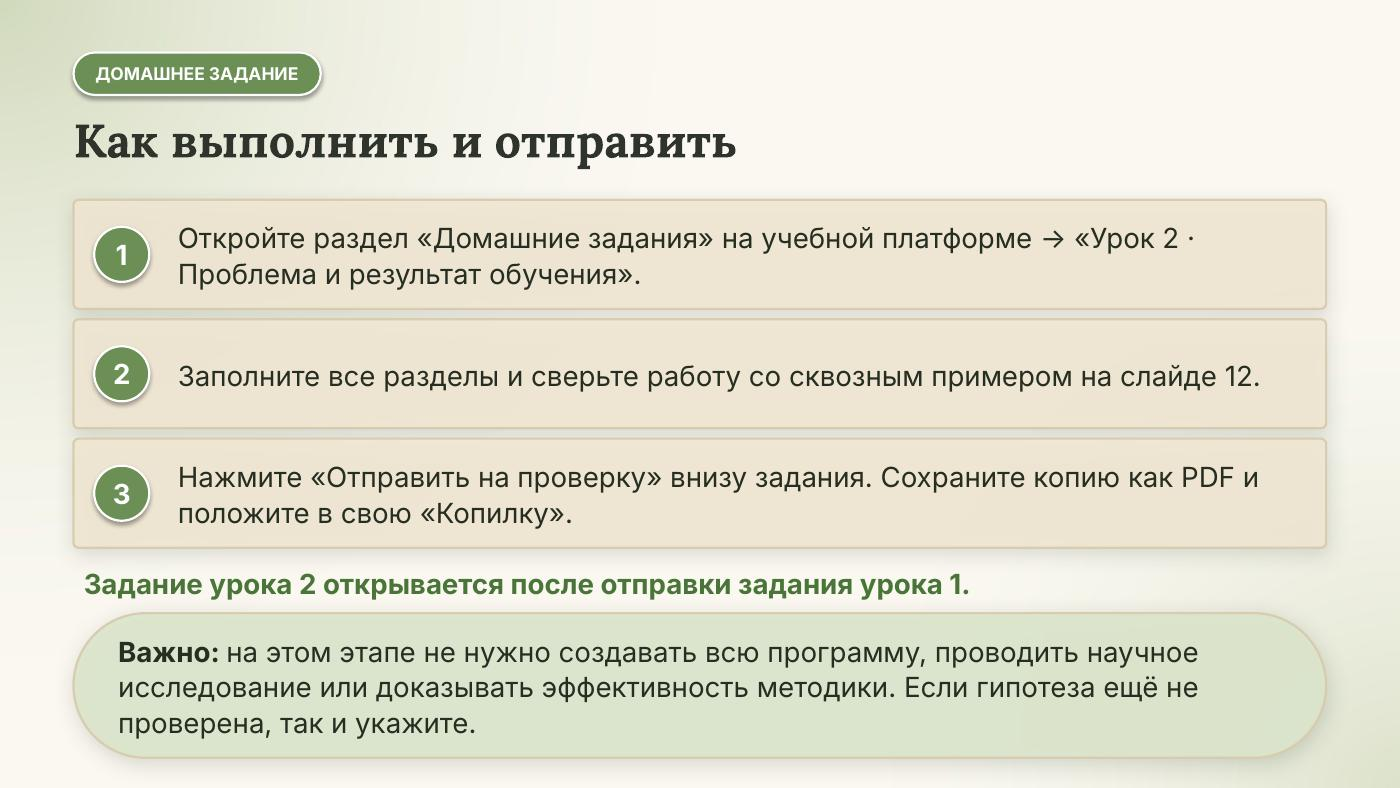
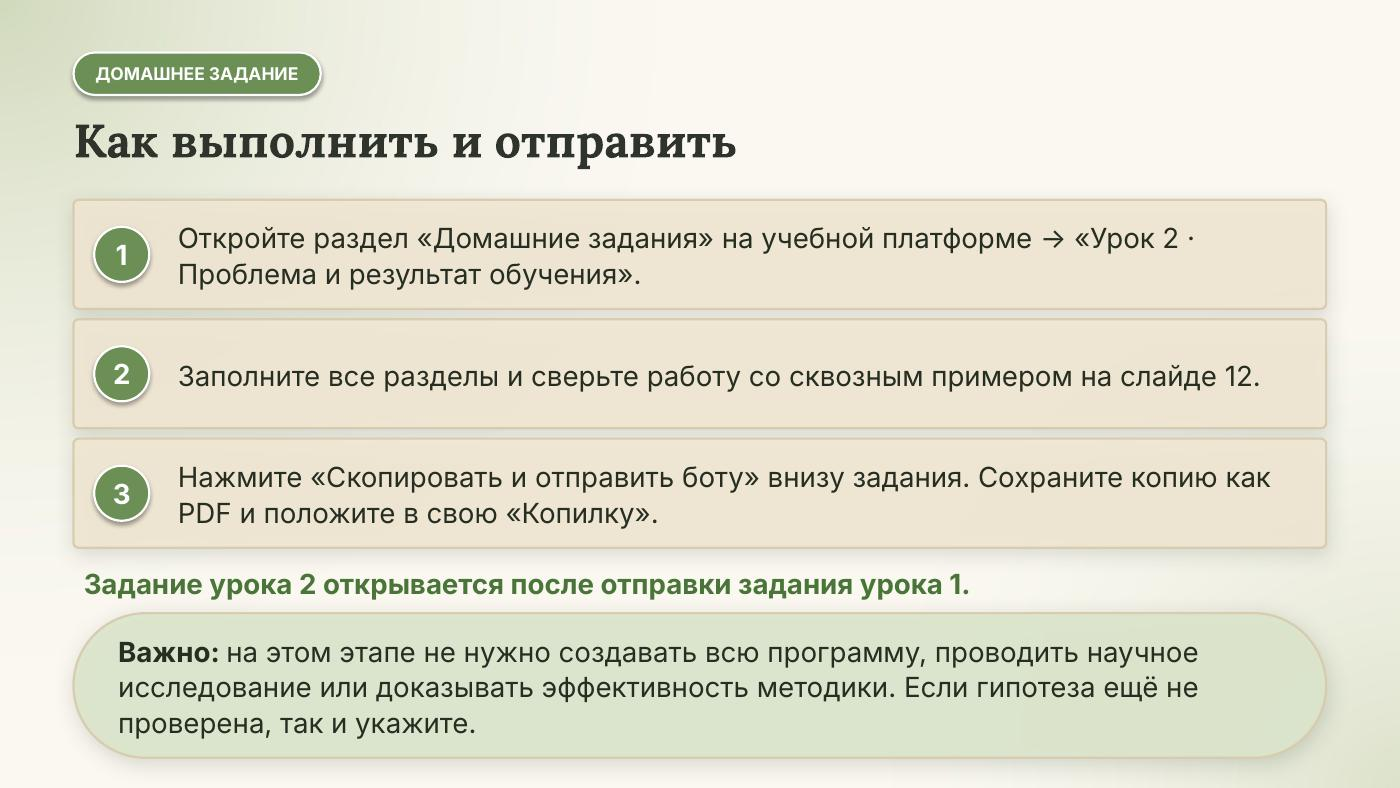
Уроки 2 и 3: верное название кнопки «Скопировать и отправить боту»
Claude-Session: https://claude.ai/code/session_01QSBLQ1QGNxgcnSucjRRssF

Changed region(s): [[0.1229, 0.5787, 0.9214, 0.6701]]

diff --git a/konstruktor.html b/konstruktor.html
@@ -102,7 +102,7 @@ var L=[
  ['q6','6. Какие материалы и инструменты нужны? С помощью чего вы пройдёте этот путь. Черновик. Уточним на уроке 3','Таблица махраджей, карточки букв, рабочая тетрадь, презентации к урокам'],
  ['#','Блок 5. Что у вас сложилось','Заполнять не нужно: здесь из ваших ответов видно, как одно вытекает из другого. Прочитайте цепочку и проверьте её. То, что ответы стоят подряд, не значит, что они согласованы: ищите противоречия. Например, в точке А ученик уже знает буквы, а путь начинается с изучения букв с нуля.'],
  ['chk1','Проверка: точка А вытекает из главной трудности? Точка Б отвечает на эту трудность? Путь начинается с того уровня, что указан в точке А, и ведёт к Б? Материалы нужны именно для этого пути? Что сходится, что уточните?','Точка А и точка Б связаны с главной трудностью. Путь ведёт к Б. Уточню: какие буквы входят в итоговую проверку']]},
-{n:2,t:'Проблема и результат обучения',note:'<b>Зачем это задание:</b> научиться разбираться в трудности ученика до выбора методики и определить результат, к которому приведёт ваша программа. На нём строится урок 3.<br><br><b>Что заполнить — по порядку:</b><br>1. Ученик и его трудность: для кого, начальный уровень, боль, потребность<br>2. Причина трудности: гипотеза 1 обязательно, гипотеза 2 — по желанию. Наблюдаю → предполагаю → проверяю → статус<br>3. Результат: что ученик сделает сам и как вы это поймёте<br>4. Будущий продукт<br><br><b>Как:</b> в каждом поле подсказкой стоит образец на махраджах (буквы мим и ба) — сверьтесь со сквозным примером на слайде 12. Затем нажмите «Отправить на проверку», сохраните копию как PDF и положите в «Копилку».<br><br>На этом этапе не нужно создавать всю программу, проводить исследование или доказывать эффективность методики. Если гипотеза ещё не проверена, так и укажите.',f:[
+{n:2,t:'Проблема и результат обучения',note:'<b>Зачем это задание:</b> научиться разбираться в трудности ученика до выбора методики и определить результат, к которому приведёт ваша программа. На нём строится урок 3.<br><br><b>Что заполнить — по порядку:</b><br>1. Ученик и его трудность: для кого, начальный уровень, боль, потребность<br>2. Причина трудности: гипотеза 1 обязательно, гипотеза 2 — по желанию. Наблюдаю → предполагаю → проверяю → статус<br>3. Результат: что ученик сделает сам и как вы это поймёте<br>4. Будущий продукт<br><br><b>Как:</b> в каждом поле подсказкой стоит образец на махраджах (буквы мим и ба) — сверьтесь со сквозным примером на слайде 12. Затем нажмите «Скопировать и отправить боту», сохраните копию как PDF и положите в «Копилку».<br><br>На этом этапе не нужно создавать всю программу, проводить исследование или доказывать эффективность методики. Если гипотеза ещё не проверена, так и укажите.',f:[
  ['#','Часть 1. Ученик и его трудность','Начните с ученика, а не с курса: кто учится, что у него не получается и чему ему нужно научиться.'],
  ['aud2','Для кого вы создаёте программу? Какой у ученика начальный уровень?','Взрослые ученицы, начинающие изучать таджвид: знают арабские буквы и читают простые слоги'],
  ['pain','Боль: что у ученика не получается сейчас?<br><span class=rep>↻ Опирайтесь на главную трудность из листа замысла (урок 1). Если уточнили её — так и напишите.</span>','Называет букву, но не может показать место её образования и путает мим и ба при чтении'],
@@ -122,7 +122,7 @@ var L=[
  ['#','Часть 4. Будущий продукт','Продукт вытекает из потребности и результата.'],
  ['prod','Какую программу или материалы вы планируете создать?','Учебный модуль «Махраджи» с объяснениями, упражнениями и заданиями для проверки'],
  ['topics','Какие темы и навыки они будут включать и как связаны с потребностью ученика?','Место образования каждой буквы, сравнение близких букв (мим и ба), чтение слогов и слов — это отвечает на потребность определять место образования и читать без путаницы']]},
-{n:3,t:'Анализ материалов и авторский вклад',note:'<b>Зачем это задание:</b> чтобы к следующему уроку вы знали, что берёте из пособия, а что делаете сами. На этом строится структура вашей программы.<br><br><b>Что заполнить — по порядку:</b><br>1. Моя гипотеза по шаблону<br>2. Пособие и раздел<br>3. Чего не хватает: три вопроса пособию<br>4. Мой раздел: что беру, что меняю и почему, как пойму, что получилось, моё решение<br><br><b>Как:</b> в каждом поле подсказкой стоит образец «Губные буквы» (мим и ба). Пишите про своего ученика из урока 2 — не копируйте образец. Затем нажмите «Отправить на проверку», сохраните копию как PDF и положите в «Копилку».',f:[
+{n:3,t:'Анализ материалов и авторский вклад',note:'<b>Зачем это задание:</b> чтобы к следующему уроку вы знали, что берёте из пособия, а что делаете сами. На этом строится структура вашей программы.<br><br><b>Что заполнить — по порядку:</b><br>1. Моя гипотеза по шаблону<br>2. Пособие и раздел<br>3. Чего не хватает: три вопроса пособию<br>4. Мой раздел: что беру, что меняю и почему, как пойму, что получилось, моё решение<br><br><b>Как:</b> в каждом поле подсказкой стоит образец «Губные буквы» (мим и ба). Пишите про своего ученика из урока 2 — не копируйте образец. Затем нажмите «Скопировать и отправить боту», сохраните копию как PDF и положите в «Копилку».',f:[
  ['hyp','1. Моя гипотеза: «Я предполагаю, что если создать…, в котором…, то он поможет… решить…»','Я предполагаю, что если создать модуль «Махраджи», в котором мим и ба сравниваются по тому, какой частью губ они образуются, то он поможет взрослым ученицам начального уровня перестать путать эти буквы при чтении'],
  ['src','2. Пособие (одно; ещё одно-два — по желанию)','Название пособия, автор, год издания'],
  ['part','2. Раздел пособия, с которым вы работаете','Раздел о губных буквах (م и ب)'],

diff --git a/preview/konstruktor.html b/preview/konstruktor.html
@@ -102,7 +102,7 @@ var L=[
  ['q6','6. Какие материалы и инструменты нужны? С помощью чего вы пройдёте этот путь. Черновик. Уточним на уроке 3','Таблица махраджей, карточки букв, рабочая тетрадь, презентации к урокам'],
  ['#','Блок 5. Что у вас сложилось','Заполнять не нужно: здесь из ваших ответов видно, как одно вытекает из другого. Прочитайте цепочку и проверьте её. То, что ответы стоят подряд, не значит, что они согласованы: ищите противоречия. Например, в точке А ученик уже знает буквы, а путь начинается с изучения букв с нуля.'],
  ['chk1','Проверка: точка А вытекает из главной трудности? Точка Б отвечает на эту трудность? Путь начинается с того уровня, что указан в точке А, и ведёт к Б? Материалы нужны именно для этого пути? Что сходится, что уточните?','Точка А и точка Б связаны с главной трудностью. Путь ведёт к Б. Уточню: какие буквы входят в итоговую проверку']]},
-{n:2,t:'Проблема и результат обучения',note:'<b>Зачем это задание:</b> научиться разбираться в трудности ученика до выбора методики и определить результат, к которому приведёт ваша программа. На нём строится урок 3.<br><br><b>Что заполнить — по порядку:</b><br>1. Ученик и его трудность: для кого, начальный уровень, боль, потребность<br>2. Причина трудности: гипотеза 1 обязательно, гипотеза 2 — по желанию. Наблюдаю → предполагаю → проверяю → статус<br>3. Результат: что ученик сделает сам и как вы это поймёте<br>4. Будущий продукт<br><br><b>Как:</b> в каждом поле подсказкой стоит образец на махраджах (буквы мим и ба) — сверьтесь со сквозным примером на слайде 12. Затем нажмите «Отправить на проверку», сохраните копию как PDF и положите в «Копилку».<br><br>На этом этапе не нужно создавать всю программу, проводить исследование или доказывать эффективность методики. Если гипотеза ещё не проверена, так и укажите.',f:[
+{n:2,t:'Проблема и результат обучения',note:'<b>Зачем это задание:</b> научиться разбираться в трудности ученика до выбора методики и определить результат, к которому приведёт ваша программа. На нём строится урок 3.<br><br><b>Что заполнить — по порядку:</b><br>1. Ученик и его трудность: для кого, начальный уровень, боль, потребность<br>2. Причина трудности: гипотеза 1 обязательно, гипотеза 2 — по желанию. Наблюдаю → предполагаю → проверяю → статус<br>3. Результат: что ученик сделает сам и как вы это поймёте<br>4. Будущий продукт<br><br><b>Как:</b> в каждом поле подсказкой стоит образец на махраджах (буквы мим и ба) — сверьтесь со сквозным примером на слайде 12. Затем нажмите «Скопировать и отправить боту», сохраните копию как PDF и положите в «Копилку».<br><br>На этом этапе не нужно создавать всю программу, проводить исследование или доказывать эффективность методики. Если гипотеза ещё не проверена, так и укажите.',f:[
  ['#','Часть 1. Ученик и его трудность','Начните с ученика, а не с курса: кто учится, что у него не получается и чему ему нужно научиться.'],
  ['aud2','Для кого вы создаёте программу? Какой у ученика начальный уровень?','Взрослые ученицы, начинающие изучать таджвид: знают арабские буквы и читают простые слоги'],
  ['pain','Боль: что у ученика не получается сейчас?<br><span class=rep>↻ Опирайтесь на главную трудность из листа замысла (урок 1). Если уточнили её — так и напишите.</span>','Называет букву, но не может показать место её образования и путает мим и ба при чтении'],
@@ -122,7 +122,7 @@ var L=[
  ['#','Часть 4. Будущий продукт','Продукт вытекает из потребности и результата.'],
  ['prod','Какую программу или материалы вы планируете создать?','Учебный модуль «Махраджи» с объяснениями, упражнениями и заданиями для проверки'],
  ['topics','Какие темы и навыки они будут включать и как связаны с потребностью ученика?','Место образования каждой буквы, сравнение близких букв (мим и ба), чтение слогов и слов — это отвечает на потребность определять место образования и читать без путаницы']]},
-{n:3,t:'Анализ материалов и авторский вклад',note:'<b>Зачем это задание:</b> чтобы к следующему уроку вы знали, что берёте из пособия, а что делаете сами. На этом строится структура вашей программы.<br><br><b>Что заполнить — по порядку:</b><br>1. Моя гипотеза по шаблону<br>2. Пособие и раздел<br>3. Чего не хватает: три вопроса пособию<br>4. Мой раздел: что беру, что меняю и почему, как пойму, что получилось, моё решение<br><br><b>Как:</b> в каждом поле подсказкой стоит образец «Губные буквы» (мим и ба). Пишите про своего ученика из урока 2 — не копируйте образец. Затем нажмите «Отправить на проверку», сохраните копию как PDF и положите в «Копилку».',f:[
+{n:3,t:'Анализ материалов и авторский вклад',note:'<b>Зачем это задание:</b> чтобы к следующему уроку вы знали, что берёте из пособия, а что делаете сами. На этом строится структура вашей программы.<br><br><b>Что заполнить — по порядку:</b><br>1. Моя гипотеза по шаблону<br>2. Пособие и раздел<br>3. Чего не хватает: три вопроса пособию<br>4. Мой раздел: что беру, что меняю и почему, как пойму, что получилось, моё решение<br><br><b>Как:</b> в каждом поле подсказкой стоит образец «Губные буквы» (мим и ба). Пишите про своего ученика из урока 2 — не копируйте образец. Затем нажмите «Скопировать и отправить боту», сохраните копию как PDF и положите в «Копилку».',f:[
  ['hyp','1. Моя гипотеза: «Я предполагаю, что если создать…, в котором…, то он поможет… решить…»','Я предполагаю, что если создать модуль «Махраджи», в котором мим и ба сравниваются по тому, какой частью губ они образуются, то он поможет взрослым ученицам начального уровня перестать путать эти буквы при чтении'],
  ['src','2. Пособие (одно; ещё одно-два — по желанию)','Название пособия, автор, год издания'],
  ['part','2. Раздел пособия, с которым вы работаете','Раздел о губных буквах (م и ب)'],

diff --git a/sw.js b/sw.js
@@ -1,4 +1,4 @@
-var V='df-v20',CORE=['./','index.html','kimi-1.html','kimi-2.html','konstruktor.html','glass2027.css','glass2027.js','dostizheniya.css','dostizheniya.js','offline.css','offline.js','icons/icon-192.png'];
+var V='df-v21',CORE=['./','index.html','kimi-1.html','kimi-2.html','konstruktor.html','glass2027.css','glass2027.js','dostizheniya.css','dostizheniya.js','offline.css','offline.js','icons/icon-192.png'];
 self.addEventListener('install',function(e){e.waitUntil(caches.open(V).then(function(c){return Promise.all(CORE.map(function(u){return c.add(u).catch(function(){})}))}).then(function(){return self.skipWaiting()}))});
 self.addEventListener('activate',function(e){e.waitUntil(caches.keys().then(function(k){return Promise.all(k.filter(function(x){return x!==V}).map(function(x){return caches.delete(x)}))}).then(function(){return self.clients.claim()}))});
 self.addEventListener('fetch',function(e){var r=e.request;if(r.method!=='GET'||new URL(r.url).origin!==location.origin)return;
